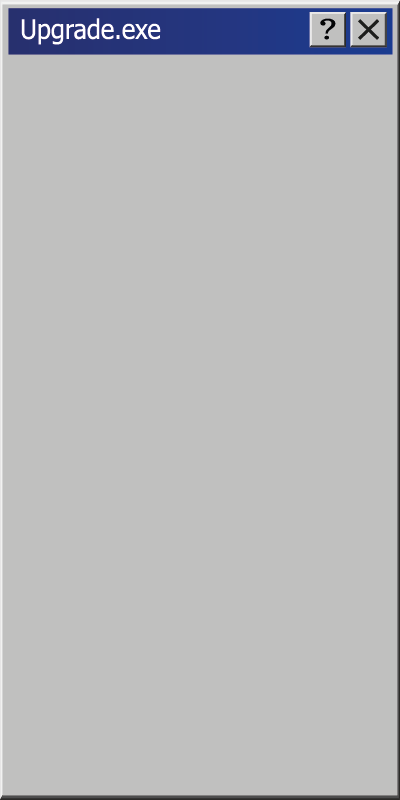
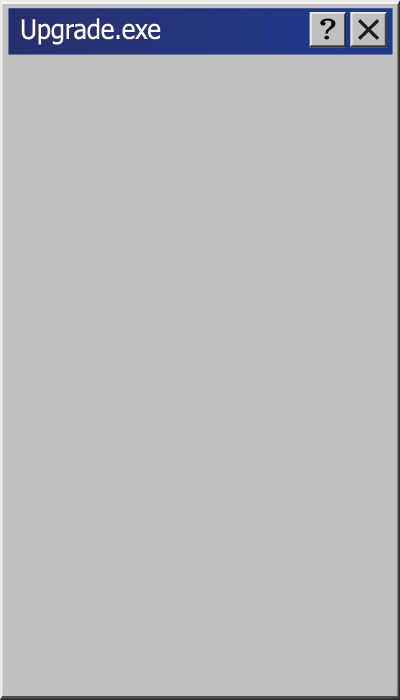
Add new background images and update MainGame and gf_Toolbar logic

Changed region(s): [[0.0, 0.0, 0.99, 0.09], [0.0, 0.99, 0.99, 1.0]]

diff --git a/src/game/scenes/gf_Toolbar.js b/src/game/scenes/gf_Toolbar.js
@@ -111,6 +111,7 @@ export function __UpgradeEXE__(scene) {
 
             console.log("Upgrade.exe");
             scene.UpdateEXEBackground = scene.add.image(0,0,"UpdateEXEBackground");
+            scene.UpdateEXEFrontBackground = scene.add.image(0,5,"UpdateEXEFrontBackground");
 
             scene.C_UpgradeEXE = scene.add.container(
                 scene.scale.width / 2,
@@ -118,22 +119,24 @@ export function __UpgradeEXE__(scene) {
             );
 
             scene.C_UpgradeEXE.addAt(scene.UpdateEXEBackground, 0);
+            scene.C_UpgradeEXE.addAt(scene.UpdateEXEFrontBackground,0);
 
-            scene.physics.add.existing(scene.UpdateEXEBackground);
+            scene.physics.add.existing(scene.UpdateEXEFrontBackground);
 
-            let Poy = -200;
+            let Poy = -190;
             scene.arrGPU.forEach((GPU,i) => {
                 scene[`GPU${i}`].setScale(0.2);
-                scene.C_UpgradeEXE.addAt(scene[`GPU${i}`],1);
+                scene.C_UpgradeEXE.addAt(scene[`GPU${i}`],10);
                 scene[`GPU${i}`].setVisible(false);
 
                 scene[`GPU${i}`].y = Poy;
+                scene[`GPU${i}`].x = -70;
                 scene[`GPUText${i}Content`].GPUprices = scene.arrGPUStats[`arrGPU${i}Stats`].prices;
                 scene[`GPUText${i}Content`].GPUamount = scene.arrGPUStats[`arrGPU${i}Stats`].amount;
                 scene[`GPUText${i}Content`].GPUproduction = scene.arrGPUStats[`arrGPU${i}Stats`].production;
                 
-                scene[`GPUText${i}`] = scene.add.text(100, 0,`Owned: ${scene[`GPUText${i}Content`].GPUamount}\nPrices: ${scene[`GPUText${i}Content`].GPUprices}\nBtc/s: ${scene[`GPUText${i}Content`].GPUproduction}`,{ fontFamily: 'Tahoma Regular', fontSize: 20, color: '#ffffff' });
-                scene.C_UpgradeEXE.addAt(scene[`GPUText${i}`],1);
+                scene[`GPUText${i}`] = scene.add.text(30, 0,`Owned: ${scene[`GPUText${i}Content`].GPUamount}\nPrices: ${scene[`GPUText${i}Content`].GPUprices}\nBtc/s: ${scene[`GPUText${i}Content`].GPUproduction}`,{ fontFamily: 'Tahoma Regular', fontSize: 20, color: '#ffffff' });
+                scene.C_UpgradeEXE.addAt(scene[`GPUText${i}`],10);
                 scene[`GPUText${i}`].setVisible(false);
                 scene[`GPUText${i}`].y = Poy - 36;
 
@@ -141,7 +144,7 @@ export function __UpgradeEXE__(scene) {
                 
                 scene.physics.add.existing(scene[`GPU${i}`]);
 
-                if(scene.physics.world.overlap(scene.UpdateEXEBackground, scene[`GPU${i}`])){
+                if(scene.physics.world.overlap(scene.UpdateEXEFrontBackground, scene[`GPU${i}`])){
                     scene[`GPU${i}`].setVisible(true);
                     scene[`GPUText${i}`].setVisible(true);
                 }
@@ -151,19 +154,19 @@ export function __UpgradeEXE__(scene) {
               scene.C_UpgradeEXE.setInteractive({
                 hitArea: {},
                 hitAreaCallback: (area, x, y) => {
-                    if (Phaser.Geom.Rectangle.Contains(new Phaser.Geom.Rectangle(-350, -300, 610, 50), x, y)) {
+                    if (Phaser.Geom.Rectangle.Contains(new Phaser.Geom.Rectangle(-197, -345, 300, 50), x, y)) {
                         scene.activeZone = "drag";
                         return true;
                     }
-                    if (Phaser.Geom.Rectangle.Contains(new Phaser.Geom.Rectangle(300, -290, 40, 40), x, y)) {
+                    if (Phaser.Geom.Rectangle.Contains(new Phaser.Geom.Rectangle(147, -342, 40, 36), x, y)) {
                         scene.activeZone = "close";
                         return true;
                     }
-                    if (Phaser.Geom.Rectangle.Contains(new Phaser.Geom.Rectangle(250, -290, 40, 40), x, y)) {
+                    if (Phaser.Geom.Rectangle.Contains(new Phaser.Geom.Rectangle(105, -342, 40, 36), x, y)) {
                         scene.activeZone = "help";
                         return true;
                     }
-                    if (Phaser.Geom.Rectangle.Contains(new Phaser.Geom.Rectangle(-340, -240, 670, 530), x, y)) {
+                    if (Phaser.Geom.Rectangle.Contains(new Phaser.Geom.Rectangle(-187, -300, 380, 635), x, y)) {
                         scene.activeZone = "scroll";
                         return true;
                     }
@@ -219,43 +222,26 @@ export function __UpgradeEXE__(scene) {
             let Progress = 10;
             scene.C_UpgradeEXE.on("wheel",(pointer, deltaX, deltaY, deltaZ, event) => {
                 if(scene.activeZone === "scroll"){
-                    if(deltaY < 0 && Progress < 10){
-                        scene.arrGPU.forEach((GPU,i) => {
-                            console.log(Progress);
+                    scene.arrGPU.forEach((GPU,i) => {
 
+                        if(deltaY < 0 && Progress < 10){
                             scene[`GPU${i}`].y += 50;
                             scene[`GPUText${i}`].y += 50;
-                            Progress += 5
-
-
-                            if(scene.physics.world.overlap(scene.UpdateEXEBackground, scene[`GPU${i}`])){
-                                scene[`GPU${i}`].setVisible(true);
-                                scene[`GPUText${i}`].setVisible(true);
-                            }else if(!scene.physics.world.overlap(scene.UpdateEXEBackground, scene[`GPU${i}`])){
-                                scene[`GPU${i}`].setVisible(false);
-                                scene[`GPUText${i}`].setVisible(false);       
-                            }
-                            
-                        });
-                    }else if(deltaY > 0 && Progress > -450){
-                        console.log(Progress);
-
-                        scene.arrGPU.forEach((GPU,i) => {
+                            Progress += 10
+                        }else if(deltaY > 0 && Progress > -1000){
                             scene[`GPU${i}`].y -=  50;
                             scene[`GPUText${i}`].y -= 50;
-                            Progress -= 5
+                            Progress -= 10
+                        }
 
-
-                            if(scene.physics.world.overlap(scene.UpdateEXEBackground, scene[`GPU${i}`])){
-                                scene[`GPU${i}`].setVisible(true);
-                                scene[`GPUText${i}`].setVisible(true);
-                            }else if(!scene.physics.world.overlap(scene.UpdateEXEBackground, scene[`GPU${i}`])){
-                                scene[`GPU${i}`].setVisible(false); 
-                                scene[`GPUText${i}`].setVisible(false);      
-                            }
-
-                        });
-                    }
+                        if(scene.physics.world.overlap(scene.UpdateEXEFrontBackground, scene[`GPU${i}`])){
+                            scene[`GPU${i}`].setVisible(true);
+                            scene[`GPUText${i}`].setVisible(true);
+                        }else if(!scene.physics.world.overlap(scene.UpdateEXEFrontBackground, scene[`GPU${i}`])){
+                            scene[`GPU${i}`].setVisible(false); 
+                            scene[`GPUText${i}`].setVisible(false);      
+                        }
+                    })
                 }
             })
 
@@ -300,6 +286,7 @@ export function __UpgradeEXE__(scene) {
             scene.C_UpgradeEXE.destroy();
             scene.UpdateEXEBackground = null;
             scene.C_UpgradeEXE = null;
+            scene.UpdateEXEFrontBackground = null;
         }
     })
 }

diff --git a/src/game/scenes/MainMenu.js b/src/game/scenes/MainMenu.js
@@ -38,7 +38,7 @@ export default class MainMenu extends Scene {
 
 
 
-       this.MainMenu.setInteractive();
+       //this.MainMenu.setInteractive(); /////////////////////////!!!!!!!!!!!!!!\\\\\\\\\\\\\\\\\\\\\\\\\\\\\\\\\\
 
         let username = "";
         let password = "";
@@ -168,7 +168,8 @@ this.input.keyboard.on("keydown", (event) => {
     }
 });
 
-        //this.scene.start('MainGame');
+        this.scene.start('MainGame');
+/*                                                  /////////////////////////!!!!!!!!!!!!!!\\\\\\\\\\\\\\\\\\\\\\\\\\\\\\\\\\
         this.MainMenu.on('pointerdown', () => {
             if(username === "admin" && password === "admin"){
             this.start = true;
@@ -177,8 +178,8 @@ this.input.keyboard.on("keydown", (event) => {
             }else{
                 console.log('MainMenu clicked - invalid credentials');
             }
-        });
-        
+});                                                /////////////////////////!!!!!!!!!!!!!!\\\\\\\\\\\\\\\\\\\\\\\\\\\\\\\\\\
+        */
 
         //Reagiert wenn die Größe sich verändert
         this.scale.on('resize', this.onResize, this);

diff --git a/src/game/scenes/MainGame.js b/src/game/scenes/MainGame.js
@@ -10,6 +10,7 @@ export default class MainGame extends Scene {
     background;
     BitCoinEXEBackground;
     UpdateEXEBackground;
+    UpdateEXEFrontBackground;
 
     activeZone = null;
     staticObjects;
@@ -154,6 +155,7 @@ export default class MainGame extends Scene {
         this.load.image("coin","coin.png");
         this.load.image("BitCoinEXEBackground","BitCoinEXEBackground.png");
         this.load.image("UpdateEXEBackground","UpdateEXEBackground.png");
+        this.load.image("UpdateEXEFrontBackground","FrontBackground.png");
 
 
         //Laden der Sounds